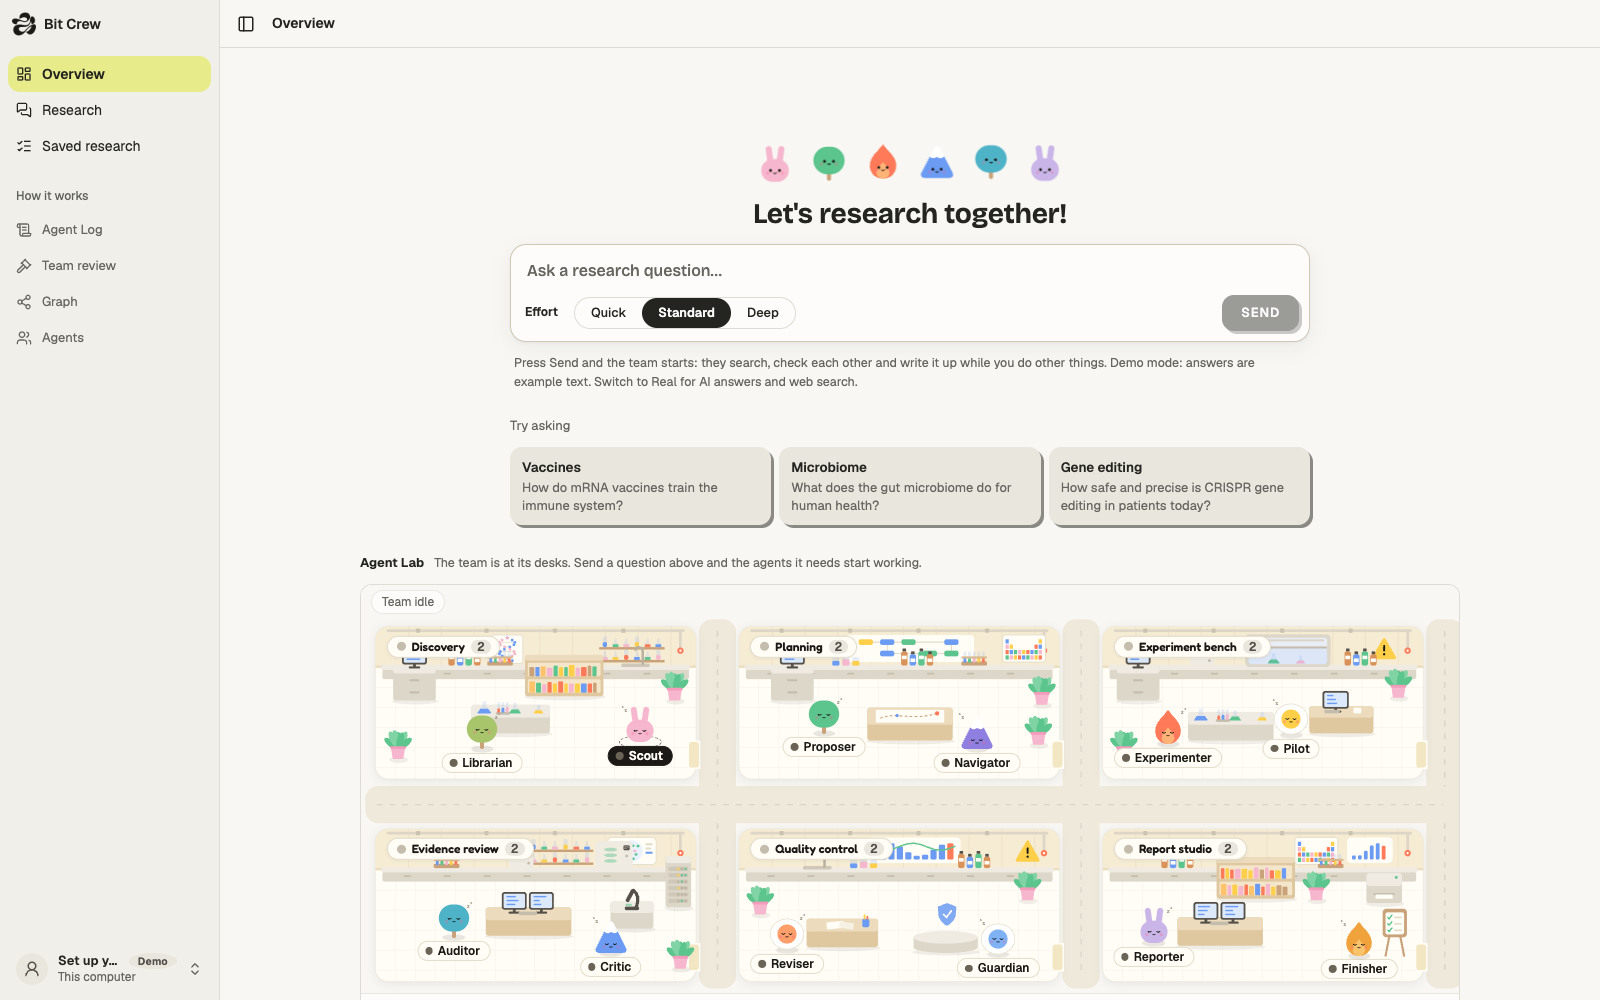
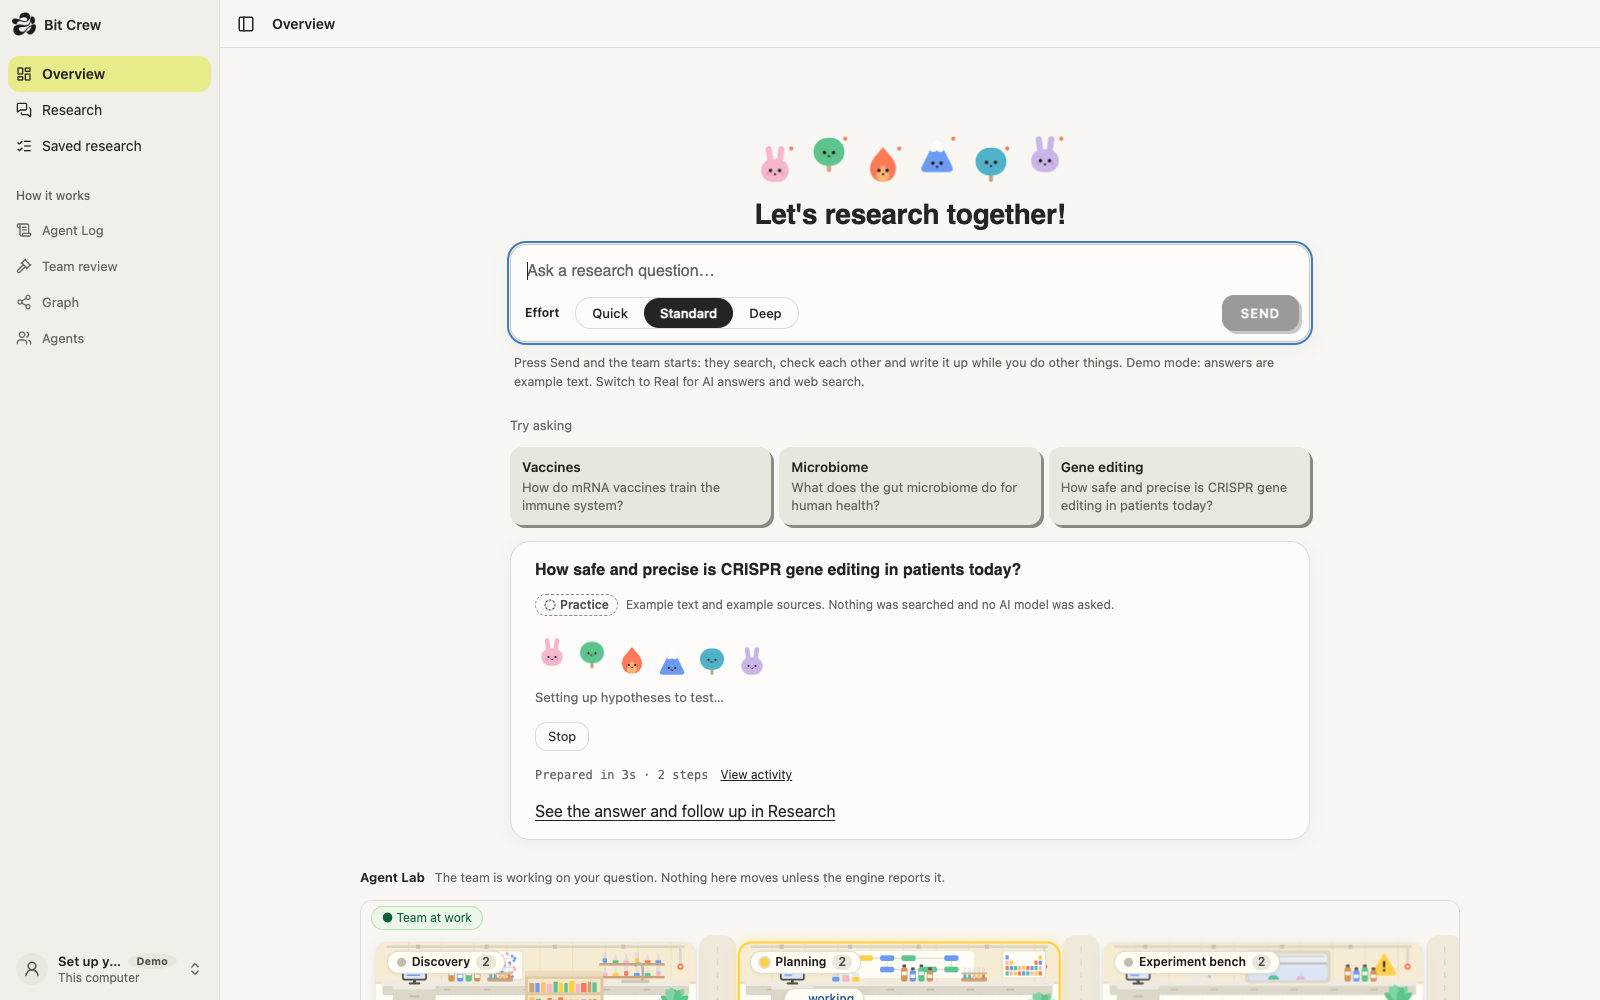
docs(readme): describe the Overview question card as the app in use shows it, running and finished

diff --git a/README.md b/README.md
@@ -137,14 +137,22 @@ labels them "Practice".
 
 ### 1. Overview: ask, and watch the team work
 
-The app opens here. Type a question in the **"Let's research together!"** box, choose Quick, Standard or Deep, and
-press Send. Under the box, **Try asking** shows biology questions; a click fills the box, and nothing is sent until
-you press Send. Below the box, the **Agent Lab** shows the team as characters in
-six rooms (Discovery, Planning, Experiment bench; Evidence review, Quality control, Report studio). Click a teammate to
-see what it does now, and its steps in the Agent Log. The activity panel follows the run. One quiet line counts
-research and practice apart. Spending and limits are in Settings.
+The app opens here. Choose Quick, Standard or Deep for a question, then press Send. Under the box, **Try asking**
+shows biology questions; a click fills the box, and nothing is sent until you press Send.
 
-![The Overview, idle: the question box, the Try asking cards, and the Agent Lab with six rooms](docs/images/overview.png)
+Ask in the "Let's research together!" question box. Its card shows under the box: the agents and their current step,
+with Stop, while the team researches, and "The answer is ready." when it ends. The answer itself is not written on the
+Overview: "See the answer and follow up in Research" opens its chat in Research, with the full answer and the box for
+a follow-up. Below it, follow the six-room Agent Lab and its activity panel. One quiet line counts research and
+practice apart.
+
+![The Overview while the team researches: the question card with the agents, the current step and Stop](docs/images/overview.png)
+
+![The Overview when the run ends: "The answer is ready." and the link "See the answer and follow up in Research"](docs/images/overview-done.png)
+
+The **Agent Lab** shows the team as characters in six rooms (Discovery, Planning, Experiment bench; Evidence review,
+Quality control, Report studio). Click a teammate to see what it does now, and its steps in the Agent Log. Spending
+and limits are in Settings.
 
 The Lab's look is by Anh Lam.
 
